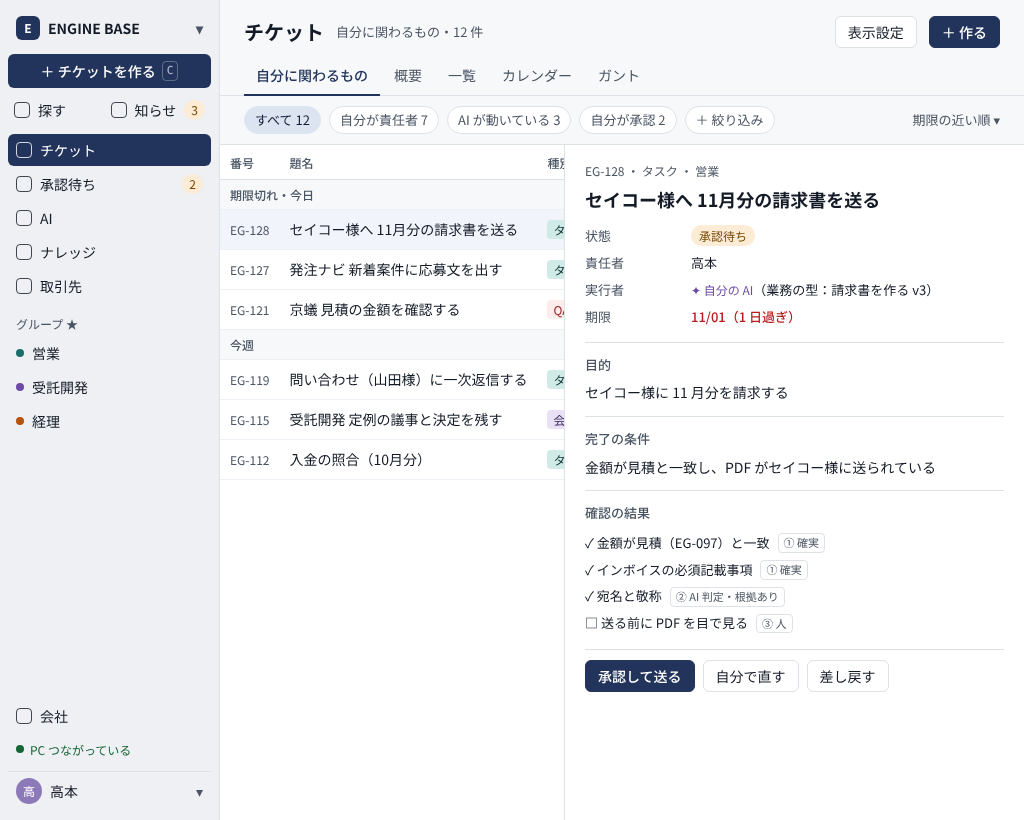
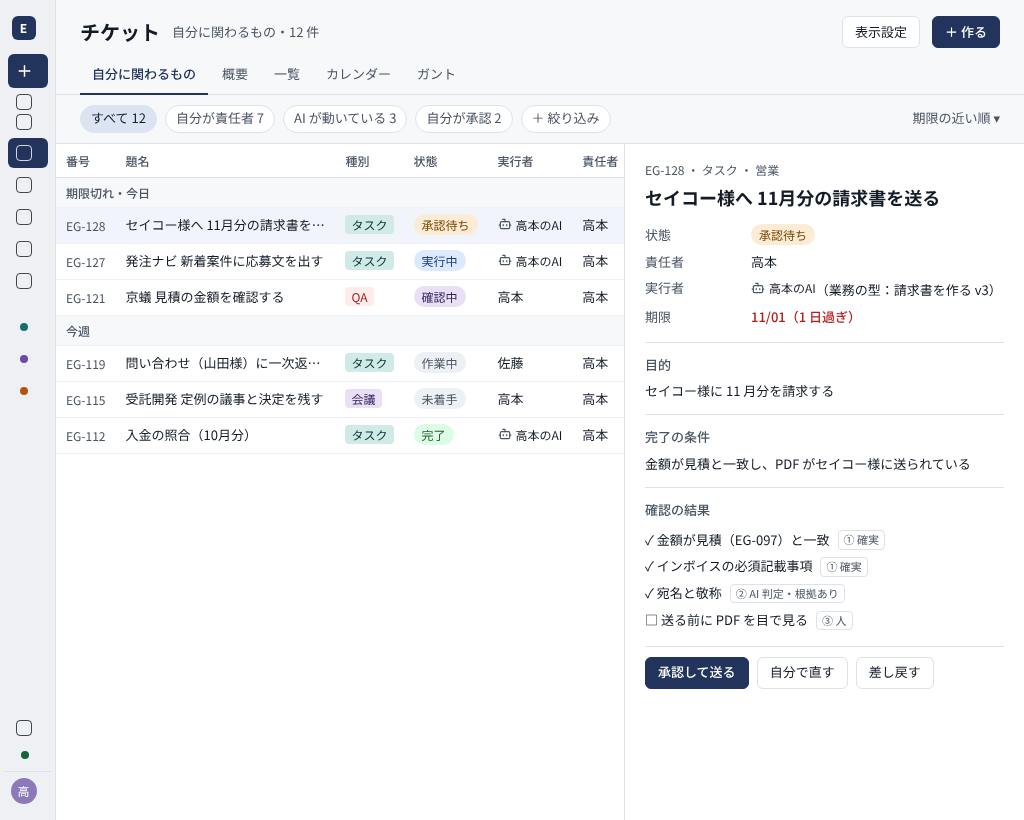
design: 密度を詰める・1024 で左のバーを畳む・既定の列・AI の印（D-128.13〜.16）、見本を更新
Claude-Session: https://claude.ai/code/session_01Hdyf3Uri9n4puza4PkNbN9

diff --git a/04_design/sample-tickets-20261102.html b/04_design/sample-tickets-20261102.html
@@ -6,7 +6,7 @@
 <style>
 :root{--pri:#22345C;--pri-c:#DCE4F2;--on-pri-c:#101C33;--ter:#6D4AA6;--ter-c:#E9E0F5;--bg:#F7F8FA;--card:#fff;--fg:#131B27;--sub:#4A5563;--line:#DDE2E9;--soft:#EDF0F4;--side:#EEF0F4;
 --ok:#166534;--ok-c:#DCFCE7;--wa:#B45309;--wa-c:#FCEBD5;--ng:#B91C1C;--ng-c:#FDECEC;--info:#1D4ED8;--info-c:#DBEAFE}
-*{box-sizing:border-box}body{margin:0;font:14px/1.6 "Noto Sans JP",system-ui,sans-serif;color:var(--fg);background:var(--bg)}
+*{box-sizing:border-box}body{margin:0;font:13px/1.6 "Noto Sans JP",system-ui,sans-serif;color:var(--fg);background:var(--bg)}
 .app{display:flex;min-height:100vh}
 /* 左のバー */
 .side{width:220px;flex:none;background:var(--side);border-right:1px solid var(--line);display:flex;flex-direction:column;padding:10px 8px;gap:2px;position:sticky;top:0;height:100vh}
@@ -15,7 +15,7 @@
 .create{margin:6px 0 4px;background:var(--pri);color:#fff;border:0;border-radius:6px;height:34px;font:inherit;font-weight:500;display:flex;align-items:center;justify-content:center;gap:6px}
 .create kbd{font-size:11px;opacity:.7;border:1px solid rgba(255,255,255,.4);border-radius:4px;padding:0 4px}
 .row2{display:flex;gap:4px;margin-bottom:6px}.row2 a{flex:1;white-space:nowrap;padding:0 6px}
-.it{display:flex;align-items:center;gap:8px;height:32px;padding:0 8px;border-radius:6px;color:var(--fg);text-decoration:none}
+.it{display:flex;align-items:center;gap:8px;height:30px;padding:0 8px;border-radius:6px;color:var(--fg);text-decoration:none}
 .it:hover{background:var(--soft)}.it.on{background:var(--pri);color:#fff}
 .it .n{margin-left:auto;font-size:12px;background:var(--wa-c);color:#7A4A05;border-radius:99px;padding:0 7px}
 .it.on .n{background:rgba(255,255,255,.2);color:#fff}
@@ -44,14 +44,14 @@
 .list{flex:1;min-width:0;overflow:auto;background:var(--card)}
 table{border-collapse:collapse;width:100%}
 th{font-size:12px;color:var(--sub);font-weight:500;text-align:left;padding:0 10px;height:34px;border-bottom:1px solid var(--line);position:sticky;top:0;background:var(--card);white-space:nowrap}
-td{height:40px;padding:0 10px;border-bottom:1px solid var(--soft);white-space:nowrap}
+td{height:36px;padding:0 10px;border-bottom:1px solid var(--soft);white-space:nowrap}
 tr.sel td{background:#F1F4FA}tr:hover td{background:#F7F9FC}
 .key{color:var(--sub);font-size:12px;font-variant-numeric:tabular-nums}
 .ttl{max-width:420px;overflow:hidden;text-overflow:ellipsis}
 .tg{font-size:12px;border-radius:4px;padding:1px 6px}
 .st{font-size:12px;border-radius:99px;padding:2px 8px}
 .s-wait{background:var(--wa-c);color:#7A4A05}.s-run{background:var(--info-c);color:#1E3A8A}.s-ok{background:var(--ok-c);color:#2E5B26}.s-chk{background:var(--ter-c);color:#33235C}.s-do{background:var(--soft);color:var(--sub)}
-.ai{display:inline-flex;align-items:center;gap:4px;font-size:12px;color:var(--ter)}
+.ai{display:inline-flex;align-items:center;gap:4px;font-size:12px;color:var(--fg)}.ai svg{color:var(--sub)}
 .due{font-variant-numeric:tabular-nums}.due.late{color:var(--ng);font-weight:500}
 .grp td{background:var(--bg);height:30px;font-size:12px;color:var(--sub);font-weight:500}
 /* 詳細（右に開く） */
@@ -65,6 +65,7 @@ tr.sel td{background:#F1F4FA}tr:hover td{background:#F7F9FC}
 /* スマホ */
 .tabbar{display:none}
 @media (max-width:1023px){.det{display:none}}
+@media (min-width:1024px) and (max-width:1279px){.side{width:56px;align-items:center}.side .it{width:40px;justify-content:center;padding:0;font-size:0}.side .it .n{display:none}.side .sec,.side .pc{font-size:0}.side .tenant{font-size:0;padding:6px}.side .tenant span:last-child{display:none}.side .create{width:40px;font-size:0}.side .create::before{content:"＋";font-size:16px}.side .create kbd{display:none}.det{width:400px}td.ttl{max-width:220px}.side .row2{flex-direction:column}.side .me{font-size:0;padding:6px}.side .me span:last-child{display:none}}
 @media (min-width:1024px) and (max-width:1599px){.up{display:none}}
 @media (max-width:767px){
  .side{display:none}.head{padding:12px 16px 6px}.head h1{font-size:18px}.head .btn.p{display:none}
@@ -108,10 +109,10 @@ tr.sel td{background:#F1F4FA}tr:hover td{background:#F7F9FC}
    <thead><tr><th>番号</th><th>題名</th><th>種別</th><th>状態</th><th>実行者</th><th>責任者</th><th>期限</th><th class="up">更新</th></tr></thead>
    <tbody>
    <tr class="grp"><td colspan="8">期限切れ・今日</td></tr>
-   <tr class="sel"><td class="key">EG-128</td><td class="ttl">セイコー様へ 11月分の請求書を送る</td><td><span class="tg" style="background:#CFEAE7;color:#0A3330">タスク</span></td><td><span class="st s-wait">承認待ち</span></td><td><span class="ai">✦ 自分の AI</span></td><td>高本</td><td class="due late">11/01</td><td class="key up">10分前</td>
-    <td class="m"><div class="mrow"><b>セイコー様へ 11月分の請求書を送る</b><div class="l2"><span class="key">EG-128</span><span class="st s-wait">承認待ち</span><span class="ai">✦ AI</span><span class="due late">11/01</span></div></div></td></tr>
-   <tr><td class="key">EG-127</td><td class="ttl">発注ナビ 新着案件に応募文を出す</td><td><span class="tg" style="background:#CFEAE7;color:#0A3330">タスク</span></td><td><span class="st s-run">実行中</span></td><td><span class="ai">✦ 自分の AI</span></td><td>高本</td><td class="due">11/02</td><td class="key up">2分前</td>
-    <td class="m"><div class="mrow"><b>発注ナビ 新着案件に応募文を出す</b><div class="l2"><span class="key">EG-127</span><span class="st s-run">実行中</span><span class="ai">✦ AI</span><span class="due">11/02</span></div></div></td></tr>
+   <tr class="sel"><td class="key">EG-128</td><td class="ttl">セイコー様へ 11月分の請求書を送る</td><td><span class="tg" style="background:#CFEAE7;color:#0A3330">タスク</span></td><td><span class="st s-wait">承認待ち</span></td><td><span class="ai"><svg width="14" height="14" viewBox="0 0 24 24" fill="none" stroke="currentColor" stroke-width="2" stroke-linecap="round" stroke-linejoin="round" aria-hidden="true"><path d="M12 8V4H8"/><rect width="16" height="12" x="4" y="8" rx="2"/><path d="M2 14h2M20 14h2M15 13v2M9 13v2"/></svg>高本のAI</span></td><td>高本</td><td class="due late">11/01</td><td class="key up">10分前</td>
+    <td class="m"><div class="mrow"><b>セイコー様へ 11月分の請求書を送る</b><div class="l2"><span class="key">EG-128</span><span class="st s-wait">承認待ち</span><span class="ai"><svg width="14" height="14" viewBox="0 0 24 24" fill="none" stroke="currentColor" stroke-width="2" stroke-linecap="round" stroke-linejoin="round" aria-hidden="true"><path d="M12 8V4H8"/><rect width="16" height="12" x="4" y="8" rx="2"/><path d="M2 14h2M20 14h2M15 13v2M9 13v2"/></svg>AI</span><span class="due late">11/01</span></div></div></td></tr>
+   <tr><td class="key">EG-127</td><td class="ttl">発注ナビ 新着案件に応募文を出す</td><td><span class="tg" style="background:#CFEAE7;color:#0A3330">タスク</span></td><td><span class="st s-run">実行中</span></td><td><span class="ai"><svg width="14" height="14" viewBox="0 0 24 24" fill="none" stroke="currentColor" stroke-width="2" stroke-linecap="round" stroke-linejoin="round" aria-hidden="true"><path d="M12 8V4H8"/><rect width="16" height="12" x="4" y="8" rx="2"/><path d="M2 14h2M20 14h2M15 13v2M9 13v2"/></svg>高本のAI</span></td><td>高本</td><td class="due">11/02</td><td class="key up">2分前</td>
+    <td class="m"><div class="mrow"><b>発注ナビ 新着案件に応募文を出す</b><div class="l2"><span class="key">EG-127</span><span class="st s-run">実行中</span><span class="ai"><svg width="14" height="14" viewBox="0 0 24 24" fill="none" stroke="currentColor" stroke-width="2" stroke-linecap="round" stroke-linejoin="round" aria-hidden="true"><path d="M12 8V4H8"/><rect width="16" height="12" x="4" y="8" rx="2"/><path d="M2 14h2M20 14h2M15 13v2M9 13v2"/></svg>AI</span><span class="due">11/02</span></div></div></td></tr>
    <tr><td class="key">EG-121</td><td class="ttl">京蟻 見積の金額を確認する</td><td><span class="tg" style="background:#FDECEC;color:#991B1B">QA</span></td><td><span class="st s-chk">確認中</span></td><td>高本</td><td>高本</td><td class="due">11/02</td><td class="key up">1時間前</td>
     <td class="m"><div class="mrow"><b>京蟻 見積の金額を確認する</b><div class="l2"><span class="key">EG-121</span><span class="st s-chk">確認中</span><span class="due">11/02</span></div></div></td></tr>
    <tr class="grp"><td colspan="8">今週</td></tr>
@@ -119,13 +120,13 @@ tr.sel td{background:#F1F4FA}tr:hover td{background:#F7F9FC}
     <td class="m"><div class="mrow"><b>問い合わせ（山田様）に一次返信する</b><div class="l2"><span class="key">EG-119</span><span class="st s-do">作業中</span><span class="due">11/05</span></div></div></td></tr>
    <tr><td class="key">EG-115</td><td class="ttl">受託開発 定例の議事と決定を残す</td><td><span class="tg" style="background:#E9E0F5;color:#33235C">会議</span></td><td><span class="st s-do">未着手</span></td><td>高本</td><td>高本</td><td class="due">11/06</td><td class="key up">2日前</td>
     <td class="m"><div class="mrow"><b>受託開発 定例の議事と決定を残す</b><div class="l2"><span class="key">EG-115</span><span class="st s-do">未着手</span><span class="due">11/06</span></div></div></td></tr>
-   <tr><td class="key">EG-112</td><td class="ttl">入金の照合（10月分）</td><td><span class="tg" style="background:#CFEAE7;color:#0A3330">タスク</span></td><td><span class="st s-ok">完了</span></td><td><span class="ai">✦ 自分の AI</span></td><td>高本</td><td class="due">11/07</td><td class="key up">3日前</td>
+   <tr><td class="key">EG-112</td><td class="ttl">入金の照合（10月分）</td><td><span class="tg" style="background:#CFEAE7;color:#0A3330">タスク</span></td><td><span class="st s-ok">完了</span></td><td><span class="ai"><svg width="14" height="14" viewBox="0 0 24 24" fill="none" stroke="currentColor" stroke-width="2" stroke-linecap="round" stroke-linejoin="round" aria-hidden="true"><path d="M12 8V4H8"/><rect width="16" height="12" x="4" y="8" rx="2"/><path d="M2 14h2M20 14h2M15 13v2M9 13v2"/></svg>高本のAI</span></td><td>高本</td><td class="due">11/07</td><td class="key up">3日前</td>
     <td class="m"><div class="mrow"><b>入金の照合（10月分）</b><div class="l2"><span class="key">EG-112</span><span class="st s-ok">完了</span><span class="due">11/07</span></div></div></td></tr>
    </tbody></table></div>
   <aside class="det">
    <div class="k">EG-128 ・ タスク ・ 営業</div>
    <h2>セイコー様へ 11月分の請求書を送る</h2>
-   <dl class="meta"><dt>状態</dt><dd><span class="st s-wait">承認待ち</span></dd><dt>責任者</dt><dd>高本</dd><dt>実行者</dt><dd><span class="ai">✦ 自分の AI</span>（業務の型：請求書を作る v3）</dd><dt>期限</dt><dd class="due late">11/01（1 日過ぎ）</dd></dl>
+   <dl class="meta"><dt>状態</dt><dd><span class="st s-wait">承認待ち</span></dd><dt>責任者</dt><dd>高本</dd><dt>実行者</dt><dd><span class="ai"><svg width="14" height="14" viewBox="0 0 24 24" fill="none" stroke="currentColor" stroke-width="2" stroke-linecap="round" stroke-linejoin="round" aria-hidden="true"><path d="M12 8V4H8"/><rect width="16" height="12" x="4" y="8" rx="2"/><path d="M2 14h2M20 14h2M15 13v2M9 13v2"/></svg>高本のAI</span>（業務の型：請求書を作る v3）</dd><dt>期限</dt><dd class="due late">11/01（1 日過ぎ）</dd></dl>
    <div class="blk"><h3>目的</h3>セイコー様に 11 月分を請求する</div>
    <div class="blk"><h3>完了の条件</h3>金額が見積と一致し、PDF がセイコー様に送られている</div>
    <div class="blk"><h3>確認の結果</h3>

diff --git a/01_hearing/要件一覧.md b/01_hearing/要件一覧.md
@@ -132,6 +132,6 @@
 | D-125 | §125 | confirmed | 第1フェーズの軸を「目標から逆算」から「チケットを作り込んで実行する」に変える。チケットの中身・分類・親子・日付・見え方・横渡しと上下の層・確認（テスト仕様書と検査）・ナレッジの使われ方と更新・運営と CS を第1フェーズで作り込む。既存の部品も含め第1フェーズの全てをチケットにし、実装済みのものはそのチケットを完了にする。2026-11-01 STEP 6 で confirmed。flow.json・ER図・tickets.json への反映と、改める既存の決定（要件定義書 3 章）の amends は ux-flow-design 以降で行う | 第1フェーズ_要件定義書_v1, 第1フェーズ_画面と面_20261101, 要件一覧 | flow.json, 第1フェーズ_画面と面_20261101.md, 第1フェーズ_要件定義書_v1.md, 要件一覧.md ／ 文 168/168 |
 | D-126 | §126 | confirmed | 「何をするか」はチケットの本文、「どうやるか」は業務の型（裏側のスキル）。部品は 2 段：操作（手足・運営だけが作る）と業務の型（頭）。業務の型は運営（全社向け・会社向け＝会社・層・個人まで絞れる）・会社・グループ・個人が作れる。操作は全社共通で、汎用のブラウザ操作＋成功した動かし方の自動記録（後で MCP・API）。中身（裏のスキル）はどの層にも見せず欄だけ見せる。個人の型は自分だけ、申請してその層のマネージャーが OK すると広がる。作り方は AI との壁打ち＋欄の直し、検査は必須・試し打ちは任意。運営の型は中身を変えず上にルールを重ねる。ルールは会社・層・個人・取引先に置ける。型はチケットを作るときに選ぶ（1 つなら自動・複数なら人）。役割（AI の）とチケットのひな形はなくす | 第1フェーズ_要件定義書_v1, 第1フェーズ_画面と面_20261101, 要件一覧 | flow.json, 第1フェーズ_画面と面_20261101.md, 第1フェーズ_要件定義書_v1.md, 要件一覧.md ／ 文 26/26 |
 | D-127 | §127 | confirmed | 行為の背骨（D-126.22）から第1フェーズの 31 画面を導き直し、今の flow.json の 64 画面と突き合わせた。実装あり 7（そのまま 3・手直し 4）・作り替え 2・新しく 22。今の 33 画面は第1フェーズから外す（deferred に決定 ID で残す）。探すはどこからでも開く検索（画面を増やさない）、運営の月次の請求は会社の一覧のタブ、運営の証跡は会社の 1 社のログのタブ | 第1フェーズ_画面と面_20261101, 要件一覧 | flow.json, 第1フェーズ_画面と面_20261101.md, 第1フェーズ_要件定義書_v1.md, 要件一覧.md ／ 文 12/12 |
-| D-128 | §128 | confirmed | 今の画面（モックと実装）を 375・768・1024・1440 で撮って使いづらさを 10 点洗い出した（帯が 3 段・同じボタンが 2 か所・見出しが無い・768 で主ボタンが切れる・レールの名前が折れる・下のタブの名前が折れる・空き地・AI の入力欄が狭い・ガントが英語と書式の崩れ・スマホのログインの宣伝の面）。色は今の紺のまま、書体は Noto Sans JP に替える。密度は中くらい（1 行 40px・本文 14px）で Backlog の作りを参考にする。左のメニューは名前つきの列（1024 以上・畳める）／768 はアイコンの列／375 は下のタブ。上の帯は置かず、検索・知らせ・テナントの切り替え・自分のメニューは左のバーに寄せる。画面は左のバーから一枚ずつ精査して決める | 要件一覧 | flow.json, 第1フェーズ_要件定義書_v1.md, 要件一覧.md ／ 文 12/12 |
+| D-128 | §128 | confirmed | 今の画面（モックと実装）を 375・768・1024・1440 で撮って使いづらさを 10 点洗い出した（帯が 3 段・同じボタンが 2 か所・見出しが無い・768 で主ボタンが切れる・レールの名前が折れる・下のタブの名前が折れる・空き地・AI の入力欄が狭い・ガントが英語と書式の崩れ・スマホのログインの宣伝の面）。色は今の紺のまま、書体は Noto Sans JP に替える。密度は中くらい（1 行 40px・本文 14px）で Backlog の作りを参考にする。左のメニューは名前つきの列（1024 以上・畳める）／768 はアイコンの列／375 は下のタブ。上の帯は置かず、検索・知らせ・テナントの切り替え・自分のメニューは左のバーに寄せる。画面は左のバーから一枚ずつ精査して決める | 要件一覧 | flow.json, 第1フェーズ_要件定義書_v1.md, 要件一覧.md ／ 文 16/16 |
 
 決定 128（confirmed 120 / スコープ外 7）。

diff --git a/01_hearing/第1フェーズ_要件定義書_v1.md b/01_hearing/第1フェーズ_要件定義書_v1.md
@@ -263,6 +263,10 @@
 | D-128.10 | グループを押したとき | そのグループのチケットに入る。チケットの画面に「概要」タブを足し、状態の内訳（1 本の棒と件数）・節目の進み・最近の更新（同じチケットはまとめて 1 行）を出す。画面は増やさない |
 | D-128.11 | チケットの既定 | 開いたら「自分に関わるもの」（責任者が自分・自分の AI が動いている・自分が承認する）を期限の近い順に出す。これが毎日のホーム（今日の画面の代わり） |
 | D-128.12 | スマホの下のタブ | チケット・承認・＋作る（真ん中）・AI・メニュー。知らせは各画面の見出しの右のベル。ナレッジ・取引先・グループ・会社・自分はメニューの中 |
+| D-128.13 | 密度（改める） | D-128.4 より詰める。一覧は 1 行 36px・本文 13px・左のバーの項目 30px。Backlog に寄せて一度に見える件数を増やす |
+| D-128.14 | 1024〜1279 で詳細を開いたとき | 左のバーを幅 56 のアイコンに畳み、詳細は幅 400。一覧は 番号・題名・種別・状態・実行者 が収まる幅を残す（足りない列は詳細で見る） |
+| D-128.15 | 一覧の既定の列 | 番号・題名・種別・状態・実行者・責任者・期限・更新 の 8 つ。他は表示設定で足す（Backlog の 20 列で題名が折れるのを避ける） |
+| D-128.16 | AI の印 | 実行者が AI のときは、ロボットの絵（線の絵）＋「高本のAI」のように責任者の名前つきで出す。紫の「✦ 自分の AI」はやめる（AI は責任者のアカウントで動く・D-125.156） |
 
 ### K・L 知らせと証跡
 
